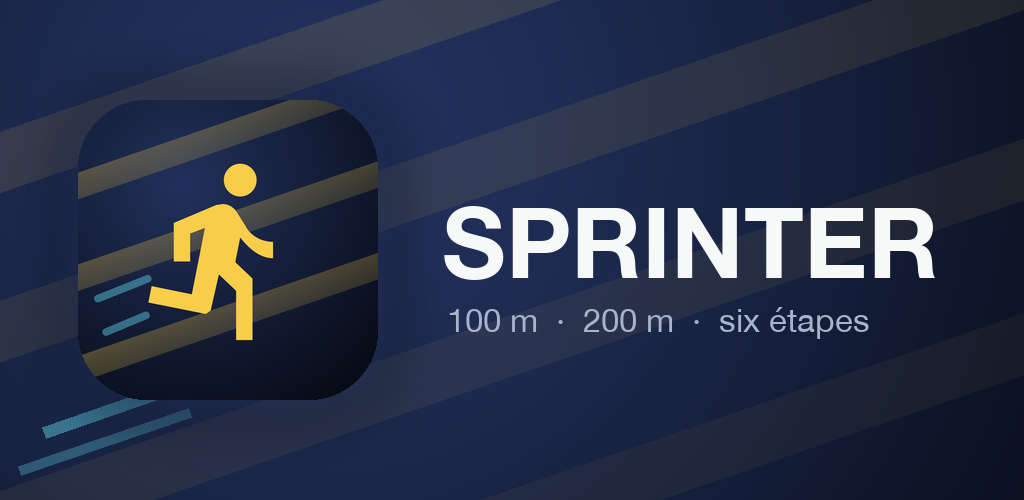
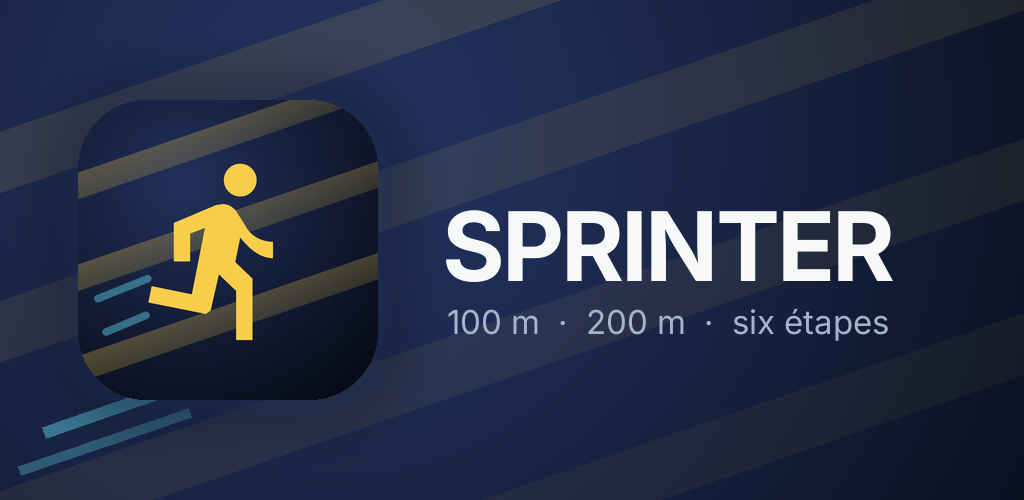
Le carrousel respire sur les ecrans tres hauts, et le visuel passe en Inter
Sur un pliable ferme — 904 x 2316, un rapport de 1:2,56 — la zone
centrale du tour d'accueil fait pres de 1700 px pour un contenu qui en
occupe 350. Le groupe flottait au milieu d'un desert.

Les scenes sont des barres de douze pixels : les faire grandir n'aurait
aucun sens. On donne donc de l'ampleur au groupe quand la hauteur le
permet — les ecarts passent de 5 a 10 puis 16 au-dela de 800 et 1100 px
de haut, et la scene gagne 70 px. En dessous, rien ne change.

Le bouton reste en bas. C'est la que le pouce le trouve, et le remonter
reglait le vide en creant un probleme d'usage.

Mesure sur un Galaxy Z Flip 6 : le groupe occupe 28 % de la hauteur au
lieu de 15 %.

Le visuel de mise en avant est refait avec la vraie Inter, celle du jeu,
au lieu du Helvetica Neue de depannage — crenage serre compris.

Changed region(s): [[0.4375, 0.39, 0.9375, 0.57], [0.5625, 0.6, 0.875, 0.69], [0.4375, 0.6, 0.5312, 0.69]]

diff --git a/src/components/screens/GameTour.tsx b/src/components/screens/GameTour.tsx
@@ -103,7 +103,18 @@ export function GameTour({ onClose }: { onClose: (jouer: boolean) => void }) {
         </button>
       </div>
 
-      <div className="flex-1 flex flex-col items-center justify-center w-full max-w-lg mx-auto gap-5 min-h-0">
+      {/* Le vide des ecrans tres hauts.
+
+          Sur un pliable ferme — 904 x 2316, un rapport de 1:2,56 — cette zone
+          fait pres de 1700 px pour un contenu qui en occupe 350. Le groupe
+          flottait au milieu d'un desert, et l'ecran paraissait inacheve.
+
+          On ne remonte pas le bouton : sa place est en bas, c'est la que le
+          pouce le trouve. On donne de l'ampleur au groupe quand la hauteur le
+          permet, et le vide se repartit au lieu de s'accumuler. En dessous de
+          800 px de haut, rien ne change. */}
+      <div className="flex-1 flex flex-col items-center justify-center w-full max-w-lg mx-auto
+                      gap-5 [@media(min-height:800px)]:gap-10 [@media(min-height:1100px)]:gap-16 min-h-0">
         <motion.div key={`t${i}`} {...MONTEE}
                     className="flex flex-col items-center gap-1.5 text-center">
           <p.Icone className={`w-6 h-6 ${p.couleur}`} />
@@ -113,7 +124,8 @@ export function GameTour({ onClose }: { onClose: (jouer: boolean) => void }) {
           <p className="text-xs md:text-sm text-foreground/70 max-w-xs">{N.t(p.sous)}</p>
         </motion.div>
 
-        <div key={`s${i}`} className="w-full flex items-center justify-center min-h-[130px]">
+        <div key={`s${i}`} className="w-full flex items-center justify-center
+                                      min-h-[130px] [@media(min-height:800px)]:min-h-[200px]">
           {p.scene}
         </div>
       </div>
